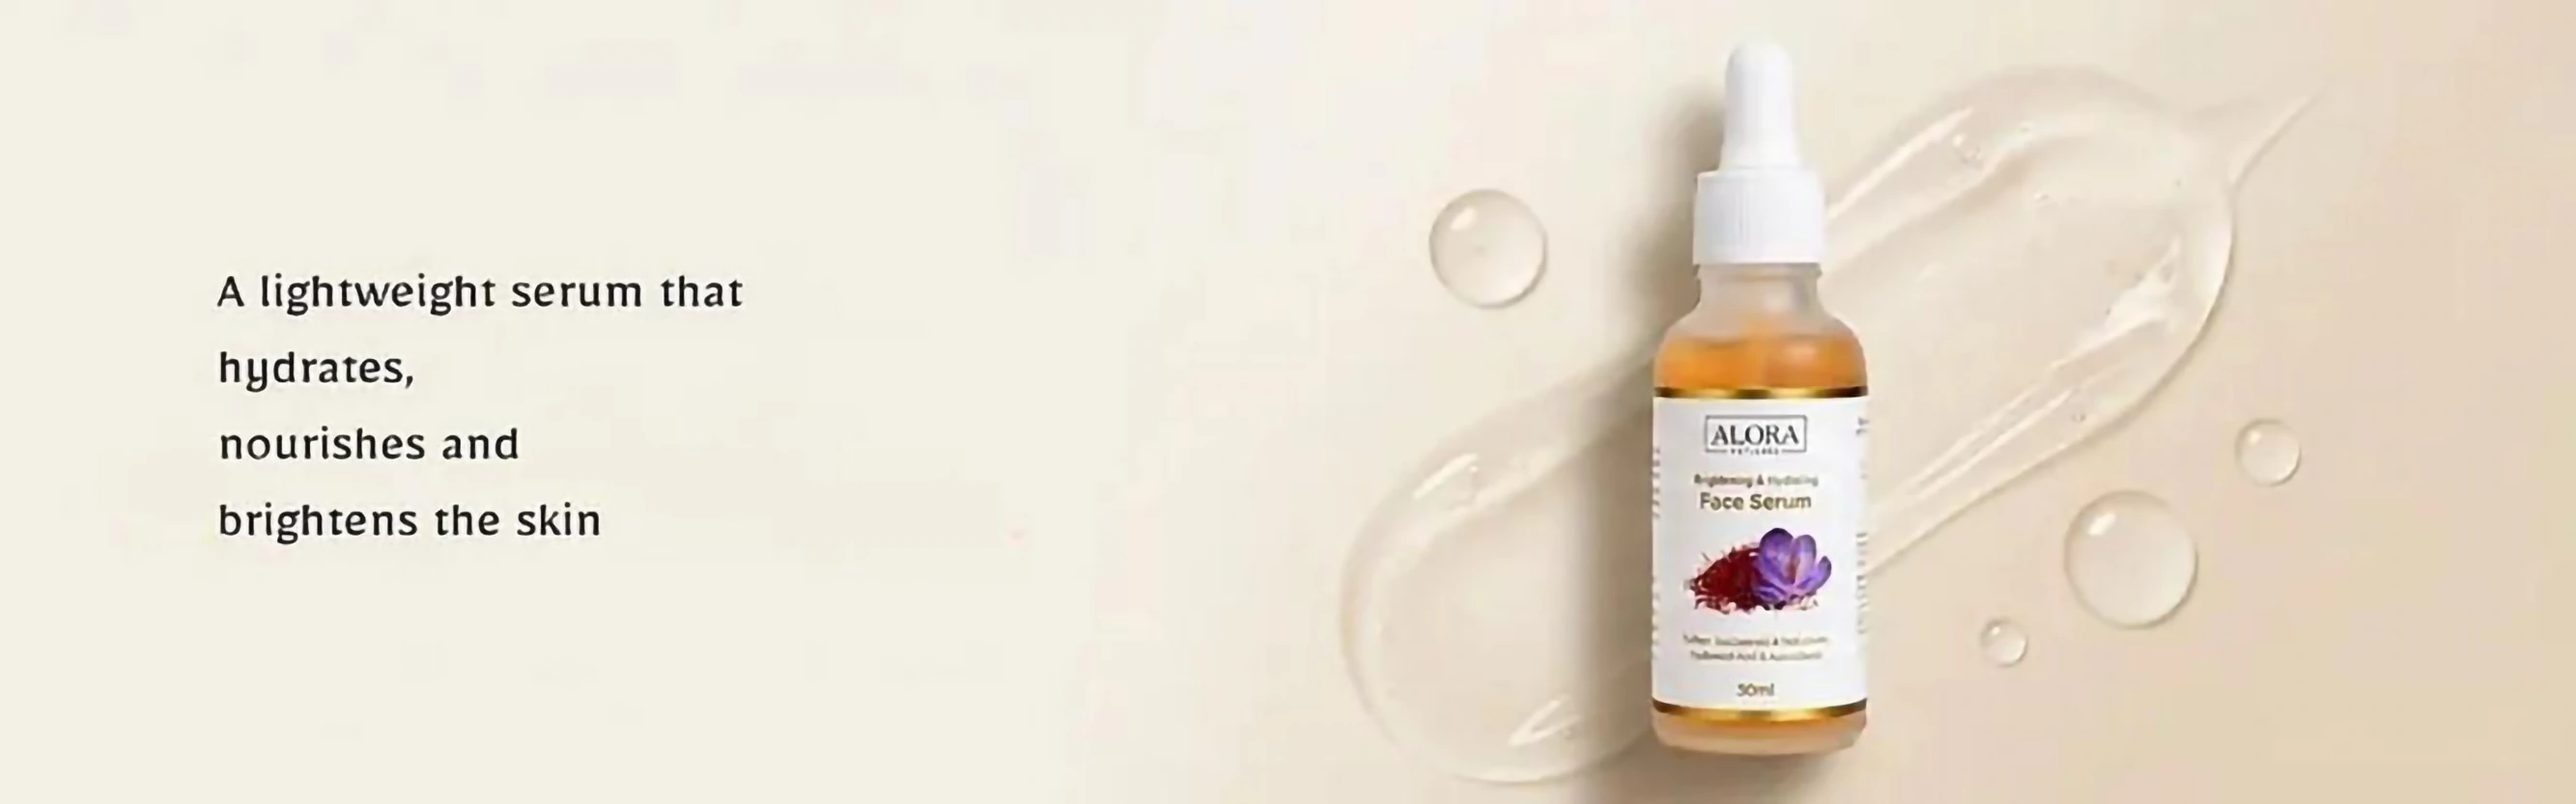
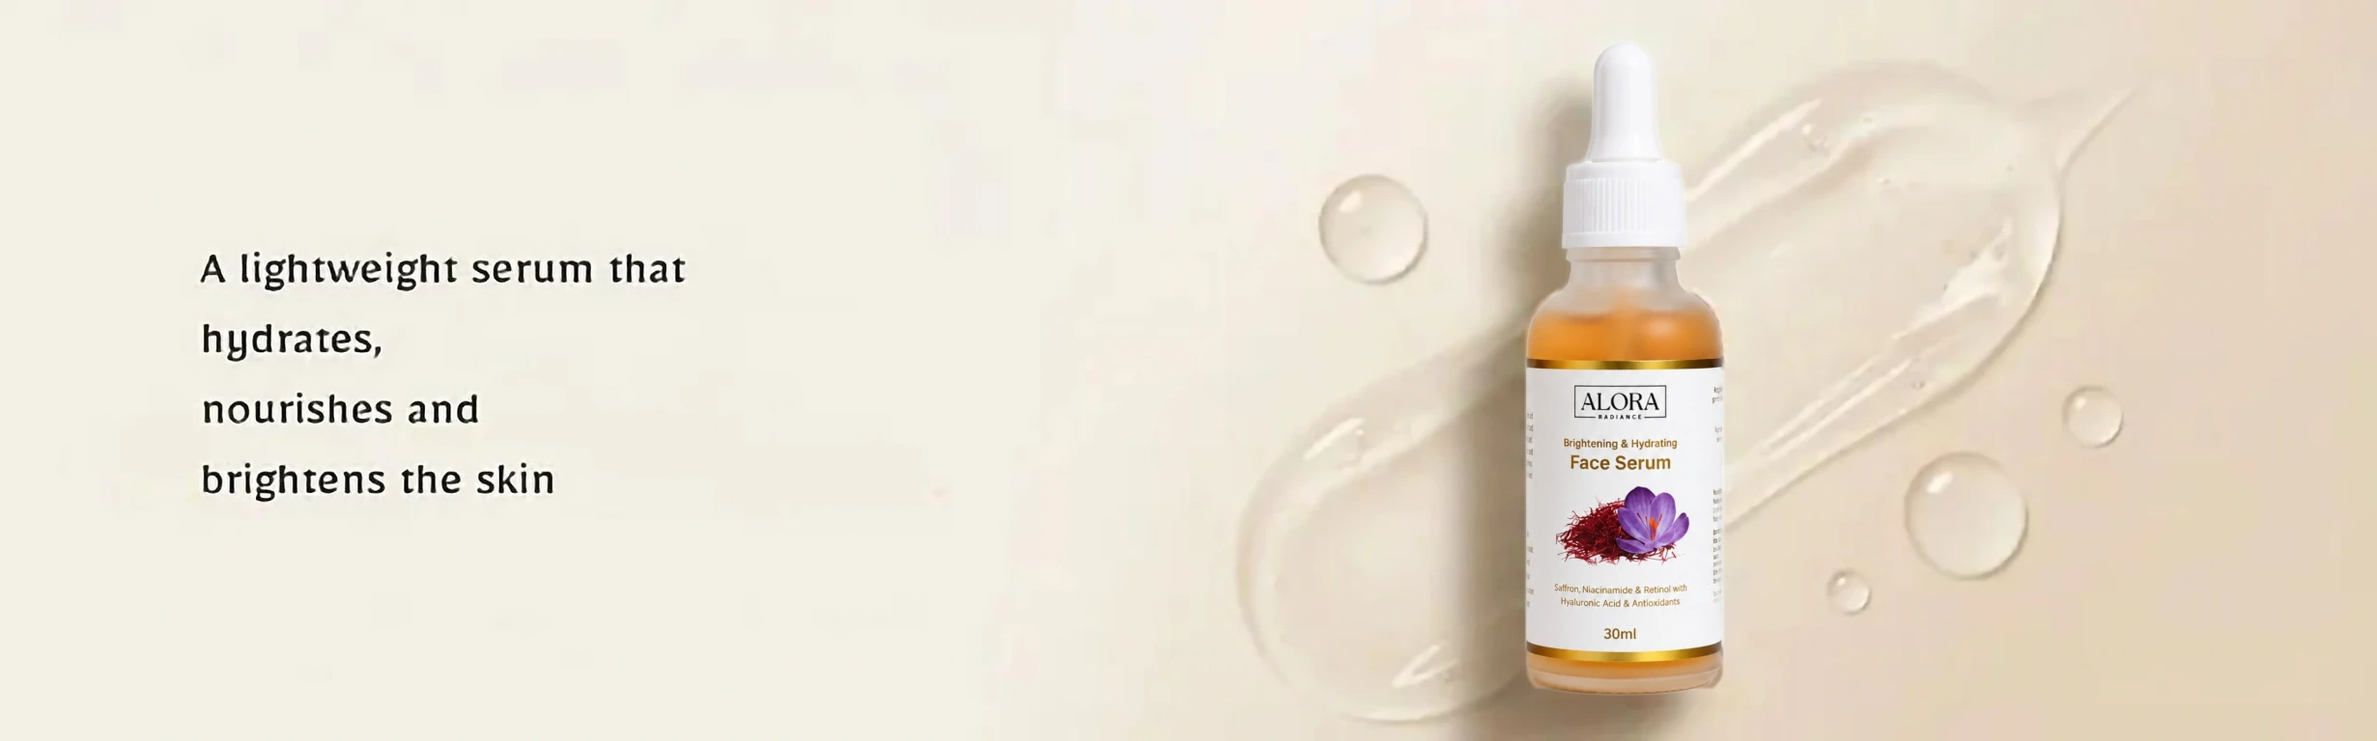
inital chnages

diff --git a/frontend/index.html b/frontend/index.html
@@ -909,7 +909,7 @@
 
     <!-- 3rd Slide: Body Lotion -->
     <a href="/product/soothing-body-lotion" class="hero-slide-link w-full shrink-0 block h-full bg-[#FBF7F0]">
-        <img src="./static/hero_banner_bodylotion_desk_hd.webp" alt="Soothing Body Lotion Banner Desktop" width="3840" height="1199" loading="lazy" decoding="async" class="hero-desk-img">
+        <img src="./static/hero_banner_bodylotion_desk.webp" alt="Soothing Body Lotion Banner Desktop" width="2461" height="768" loading="lazy" decoding="async" class="hero-desk-img">
         <img src="./static/hero_banner_bodylotion_mob_hd.webp" alt="Soothing Body Lotion Banner Mobile" width="1229" height="1536" loading="lazy" decoding="async" class="hero-mob-img">
     </a>
 
@@ -921,7 +921,7 @@
 
     <!-- 5th Slide: Face Serum -->
     <a href="/product/brightening-hydrating-face-serum" class="hero-slide-link w-full shrink-0 block h-full bg-[#FBF7F0]">
-        <img src="./static/hero_banner_faceserum_desk_hd.webp" alt="Brightening &amp; Hydrating Face Serum Banner Desktop" width="3840" height="1199" loading="lazy" decoding="async" class="hero-desk-img">
+        <img src="./static/hero_banner_faceserum_desk.webp" alt="Brightening &amp; Hydrating Face Serum Banner Desktop" width="2461" height="768" loading="lazy" decoding="async" class="hero-desk-img">
         <img src="./static/hero_banner_faceserum_mob_hd.webp" alt="Brightening &amp; Hydrating Face Serum Banner Mobile" width="1229" height="1536" loading="lazy" decoding="async" class="hero-mob-img">
     </a>
 
